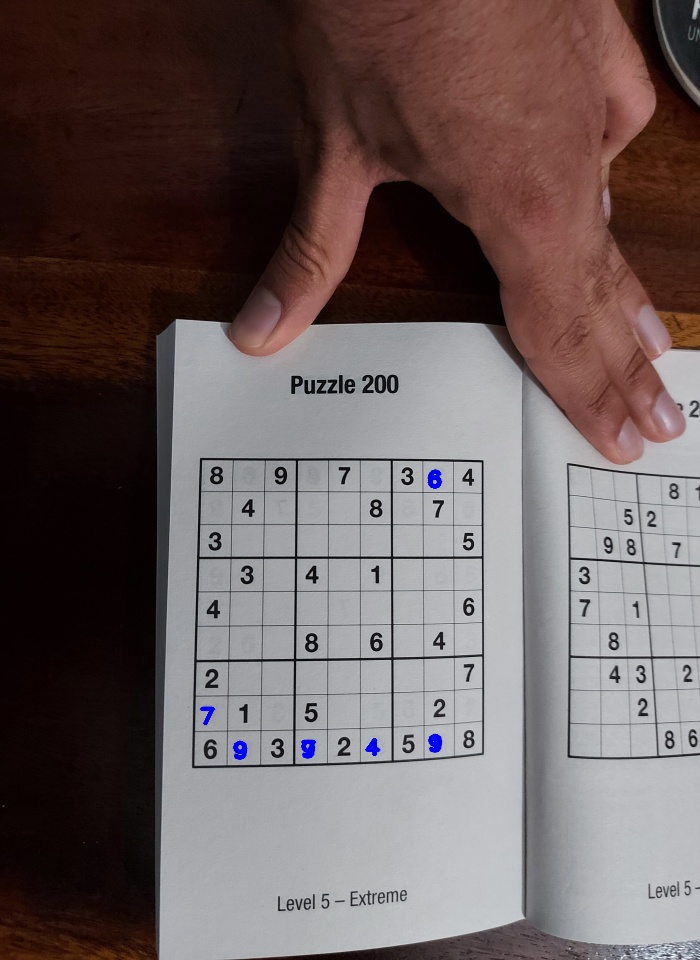
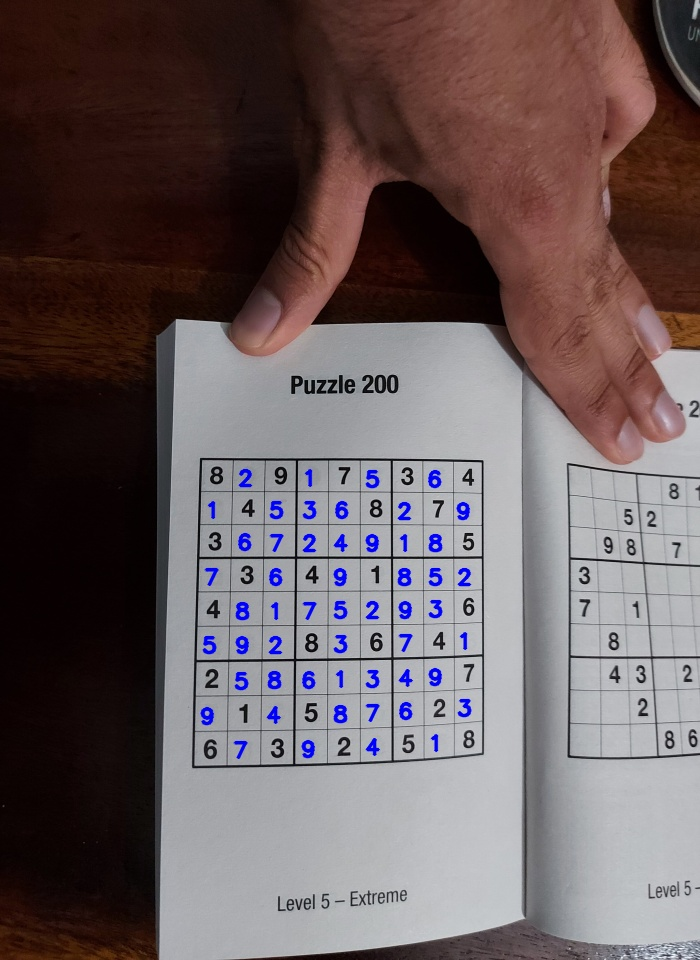
Working recursion tested
Recursion algorithm tested on harder puzzles

diff --git a/src/main.py b/src/main.py
@@ -2,7 +2,7 @@ from src.SudokuPuzzle import SudokuPuzzle
 
 
 def main():
-    sp = SudokuPuzzle('53', False)
+    sp = SudokuPuzzle('200', False)
     sp.create_board()
     sp.solve_puzzle()
 
